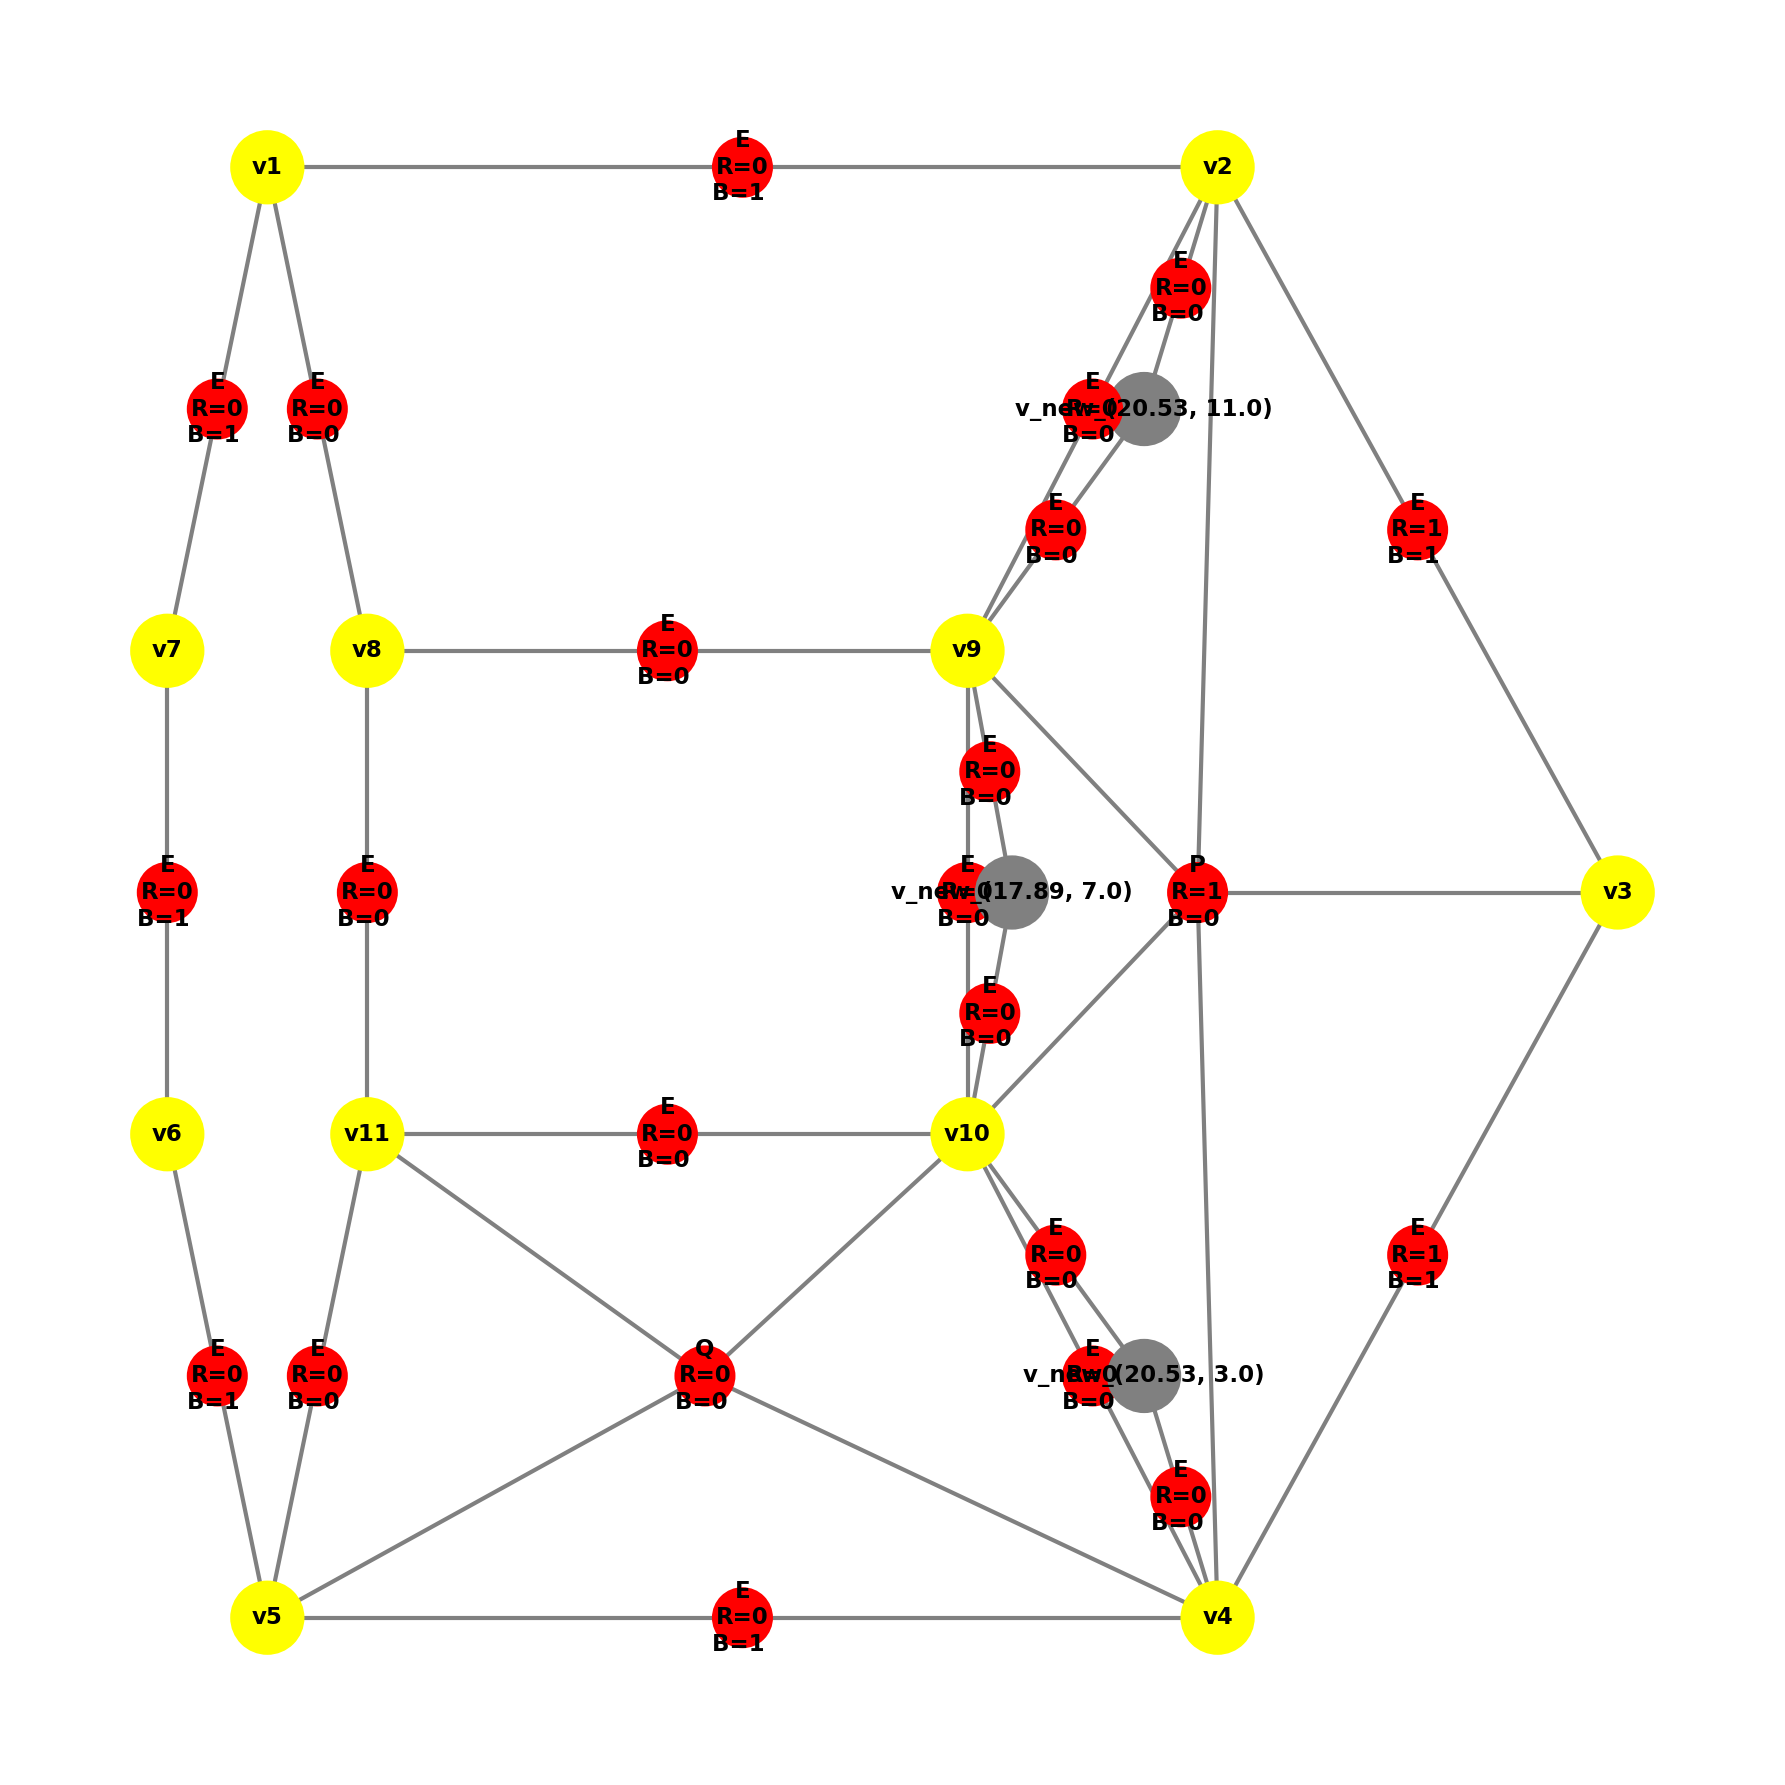
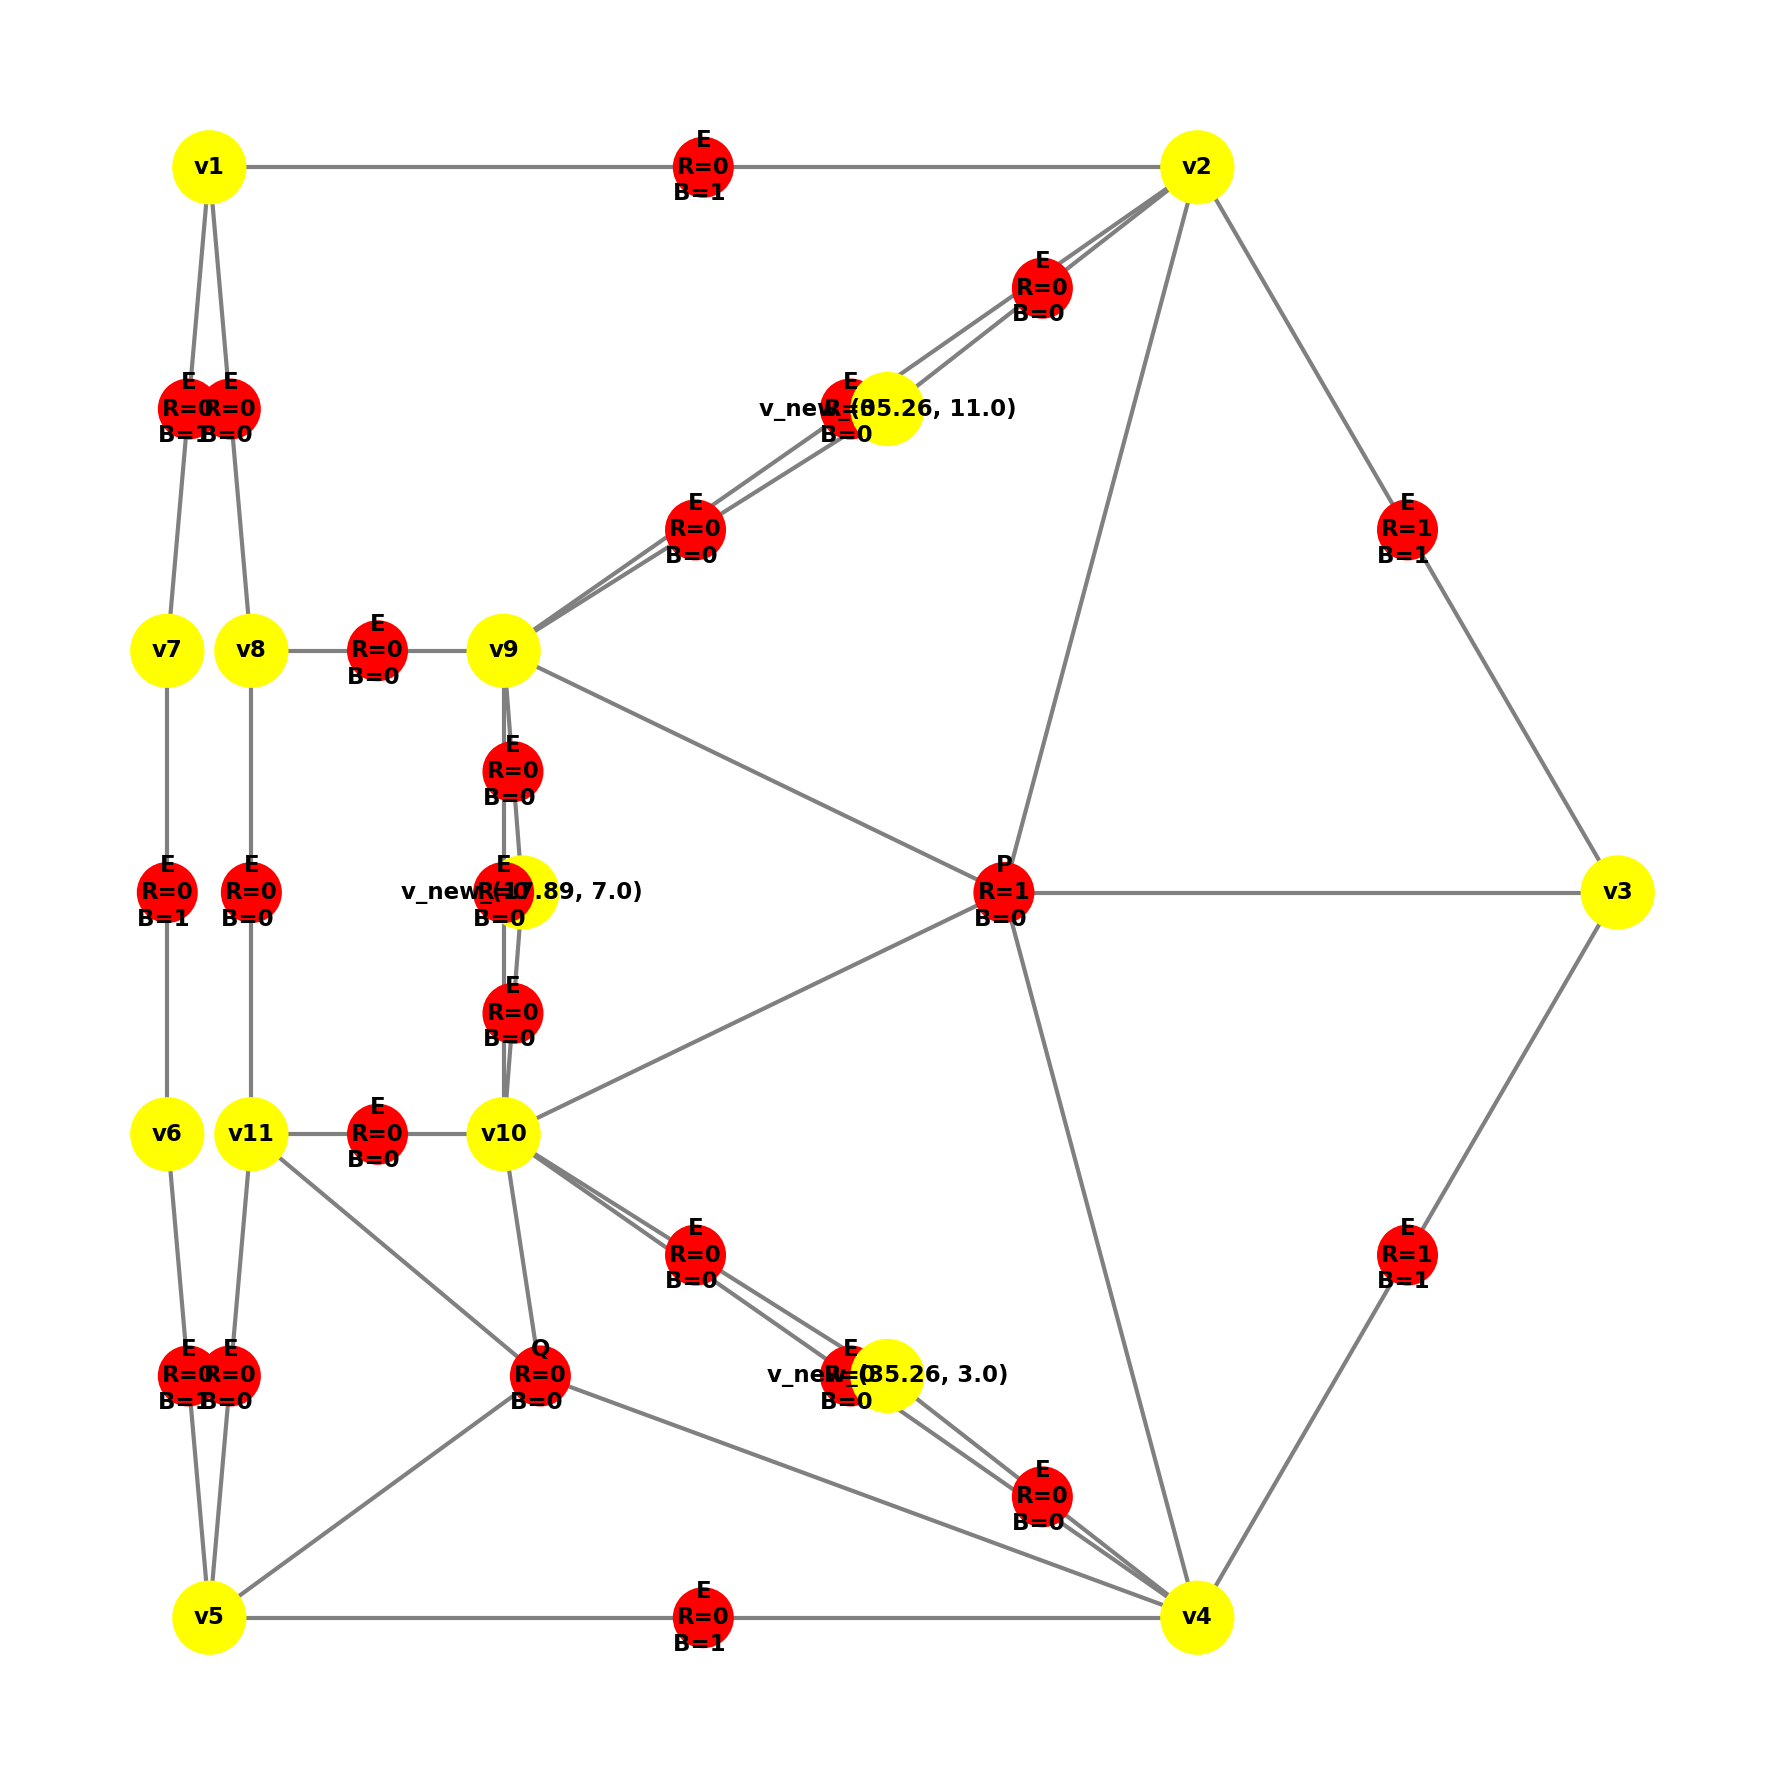
zrobione!

diff --git a/productions/p8.py b/productions/p8.py
@@ -28,7 +28,7 @@ class P8(Production):
         g = Graph()
         # Tworzymy 5 wierzchołków narożnych i 5 wiszących
         corners = [Node(0, 0, f"v{i}") for i in range(5)]
-        hanging = [Node(0, 0, f"h{i}", hanging=True) for i in range(5)]
+        hanging = [Node(0, 0, f"h{i}") for i in range(5)]
 
         for n in corners + hanging:
             g.add_node(n)
@@ -47,61 +47,49 @@ class P8(Production):
 
         return g
 
-    def find_match(self, graph: Graph) -> Optional[HyperEdge]:
-        """
-        Znajduje element P oznaczony do podziału, którego wszystkie krawędzie są podzielone.
-        """
+    def find_match(self, graph: Graph) -> Optional[Graph]:
         for p_edge in graph.hyperedges:
-            # Szukamy hiperkrawędzi P, R=1, 5 wierzchołków
-            if p_edge.hypertag == "P" and p_edge.R == 1 and len(p_edge.nodes) == 5:
-                corners = list(p_edge.nodes)
-                hanging_nodes = []
-                found_all_hanging = True
+            if p_edge.hypertag != "P" or p_edge.R != 1 or len(p_edge.nodes) != 5:
+                continue
 
-                # Sprawdzamy każdy bok pięciokąta
-                for i in range(5):
-                    u = corners[i]
-                    v = corners[(i + 1) % 5]
+            corners = list(p_edge.nodes)
+            hanging_nodes = []
+            matched_edges = [p_edge]
 
-                    # Szukamy węzła wiszącego h pomiędzy u i v
-                    h_found = None
+            for i in range(5):
+                u = corners[i]
+                v = corners[(i + 1) % 5]
+                h = None
 
-                    # Znajdź sąsiadów u połączonych krawędzią E
-                    neighbors_u = set()
-                    for edge in graph.hyperedges:
-                        if edge.hypertag == "E" and u in edge.nodes:
-                            other = edge.nodes[1] if edge.nodes[0] == u else edge.nodes[0]
-                            neighbors_u.add(other)
-
-                    # Sprawdź czy któryś z sąsiadów jest odpowiednim węzłem wiszącym
-                    for h_cand in neighbors_u:
-                        # POPRAWKA: Węzeł wiszący nie może być wierzchołkiem narożnym
-                        if h_cand == u or h_cand == v:
+                for e1 in graph.hyperedges:
+                    if e1.hypertag == "E" and u in e1.nodes:
+                        h_cand = e1.nodes[0] if e1.nodes[1] == u else e1.nodes[1]
+                        if h_cand in corners:
                             continue
 
-                        # POPRAWKA: Wymagamy, aby węzeł miał flagę hanging (zgodnie z modelem)
-                        if not h_cand.hanging:
-                            continue
-
-                        is_connected_to_v = False
-                        for edge in graph.hyperedges:
-                            if edge.hypertag == "E" and h_cand in edge.nodes and v in edge.nodes:
-                                is_connected_to_v = True
+                        for e2 in graph.hyperedges:
+                            if e2.hypertag == "E" and set(e2.nodes) == {h_cand, v}:
+                                h = h_cand
+                                matched_edges.extend([e1, e2])
                                 break
-
-                        if is_connected_to_v:
-                            h_found = h_cand
-                            break
-
-                    if h_found:
-                        hanging_nodes.append(h_found)
-                    else:
-                        found_all_hanging = False
+                    if h:
                         break
 
-                if found_all_hanging:
-                    all_nodes = corners + hanging_nodes
-                    return HyperEdge(tuple(all_nodes), "MATCH_CONTAINER", R=1)
+                if h is None:
+                    break
+
+                hanging_nodes.append(h)
+
+            if len(hanging_nodes) != 5:
+                continue
+
+            matched = Graph()
+            for n in corners + hanging_nodes:
+                matched.add_node(n)
+            for e in matched_edges:
+                matched.add_edge(e)
+
+            return matched
 
         return None
 
@@ -111,19 +99,22 @@ class P8(Production):
     def get_right_side(self, matched: Graph, level: int) -> Graph:
         result = Graph()
 
-        # 1. Odzyskaj strukturę z podgrafu matched
-        p_edge = None
+        # 1. PRZEPISZ CAŁY GRAF
+        for n in matched.nodes:
+            result.add_node(n)
         for e in matched.hyperedges:
             if e.hypertag == "P":
-                p_edge = e
-                break
+                continue
+            result.add_edge(e)
 
-        if not p_edge:
-            return matched
+        # 2. znajdź P
+        p_edge = next(e for e in matched.hyperedges if e.hypertag == "P")
 
         corners = list(p_edge.nodes)
 
-        # Odzyskaj węzły wiszące w odpowiedniej kolejności
+        # 3. oznacz jako przetworzone
+        p_edge.R = 0
+
         hanging_nodes = []
         for i in range(5):
             u = corners[i]
@@ -155,31 +146,11 @@ class P8(Production):
         center = Node(avg_x, avg_y, f"center_p8_{corners[0].label}")
         result.add_node(center)
 
-        # 3. Odtwórz krawędzie i dodaj wnętrze
         for i in range(5):
-            u = corners[i]
-            v = corners[(i + 1) % 5]
             h = hanging_nodes[i]
-
-            # Pobierz atrybut B z oryginalnych krawędzi
-            b_val_uh = 0
-            for e in matched.hyperedges:
-                if set(e.nodes) == {u, h}:
-                    b_val_uh = e.B
-                    break
-
-            b_val_hv = 0
-            for e in matched.hyperedges:
-                if set(e.nodes) == {h, v}:
-                    b_val_hv = e.B
-                    break
-
-            result.add_edge(HyperEdge((u, h), "E", boundary=(b_val_uh == 1), R=0, B=b_val_uh))
-            result.add_edge(HyperEdge((h, v), "E", boundary=(b_val_hv == 1), R=0, B=b_val_hv))
-
-            result.add_edge(HyperEdge((center, h), "E", boundary=False, R=0, B=0))
-
             h_prev = hanging_nodes[(i - 1) % 5]
-            result.add_edge(HyperEdge((u, h, center, h_prev), "Q", R=0))
+
+            result.add_edge(HyperEdge((center, h), "E", R=0, B=0))
+            result.add_edge(HyperEdge((corners[i], h, center, h_prev), "Q", R=0))
 
         return result

diff --git a/wywody/gr7/wywod.py b/wywody/gr7/wywod.py
@@ -36,23 +36,31 @@ def main_func():
     draw(g, "img/5.png")
 
     p8 = P8()
+    print(p8.can_apply(g))
     g.apply(p8)
     draw(g, "img/6.png")
 
     p0 = P0()
+    print(p0.can_apply(g))
     g.apply(p0)
-    draw(g, "img/6.png")
-
-    p1 = P1() #tego nikt nie wstawił na gita xD
-    g.apply(p1)
     draw(g, "img/7.png")
 
-    p4 = P4()
-    g.apply(p4)
+    p1 = P1()
+    g.apply(p1)
     draw(g, "img/8.png")
+
+    p3 = P3()
+    while p3.can_apply(g):
+        g.apply(p3)
+    draw(g, "img/9.png")
+
+    p4 = P4()
+    while p4.can_apply(g):
+        g.apply(p4)
+    draw(g, "img/10.png")
 
     p5 = P5() #tego też nie..
     g.apply(p5)
-    draw(g, "img/9.png")
+    draw(g, "img/11.png")
 
 main_func()

diff --git a/productions/p4.py b/productions/p4.py
@@ -64,7 +64,7 @@ class P4(Production):
         mid_x = (n1.x + n2.x) / 2
         mid_y = (n1.y + n2.y) / 2
         new_node_label = f"h_{n1.label}_{n2.label}"
-        hanging_node = Node(mid_x, mid_y, new_node_label, hanging=True)
+        hanging_node = Node(mid_x, mid_y, new_node_label)
         result.add_node(hanging_node)
         
         # Create two new edges, both boundary (B=1) but not marked for refinement (R=0)

diff --git a/wywody/gr7/first_graph.py b/wywody/gr7/first_graph.py
@@ -5,9 +5,9 @@ from visualization import draw
 def make_graph() -> Graph:
     g = Graph()
     n1 = Node(3, 13, "v1")
-    n2 = Node(22, 13, "v2")
-    n3 = Node(30, 7, "v3")
-    n4 = Node(22, 1, "v4")
+    n2 = Node(50, 13, "v2")
+    n3 = Node(70, 7, "v3")
+    n4 = Node(50, 1, "v4")
     n5 = Node(3, 1, "v5")
     n6 = Node(1, 5, "v6")
     n7 = Node(1, 9, "v7")

diff --git a/productions/p3.py b/productions/p3.py
@@ -80,7 +80,7 @@ class P3(Production):
         # Create a unique label for the new node
         # print(new_x,new_y)
         new_node_label = f"v_new_{new_x, new_y}"
-        v_new = Node(x=new_x, y=new_y, label=new_node_label, hanging=True)
+        v_new = Node(x=new_x, y=new_y, label=new_node_label)
 
         result.add_node(v_new)
 
